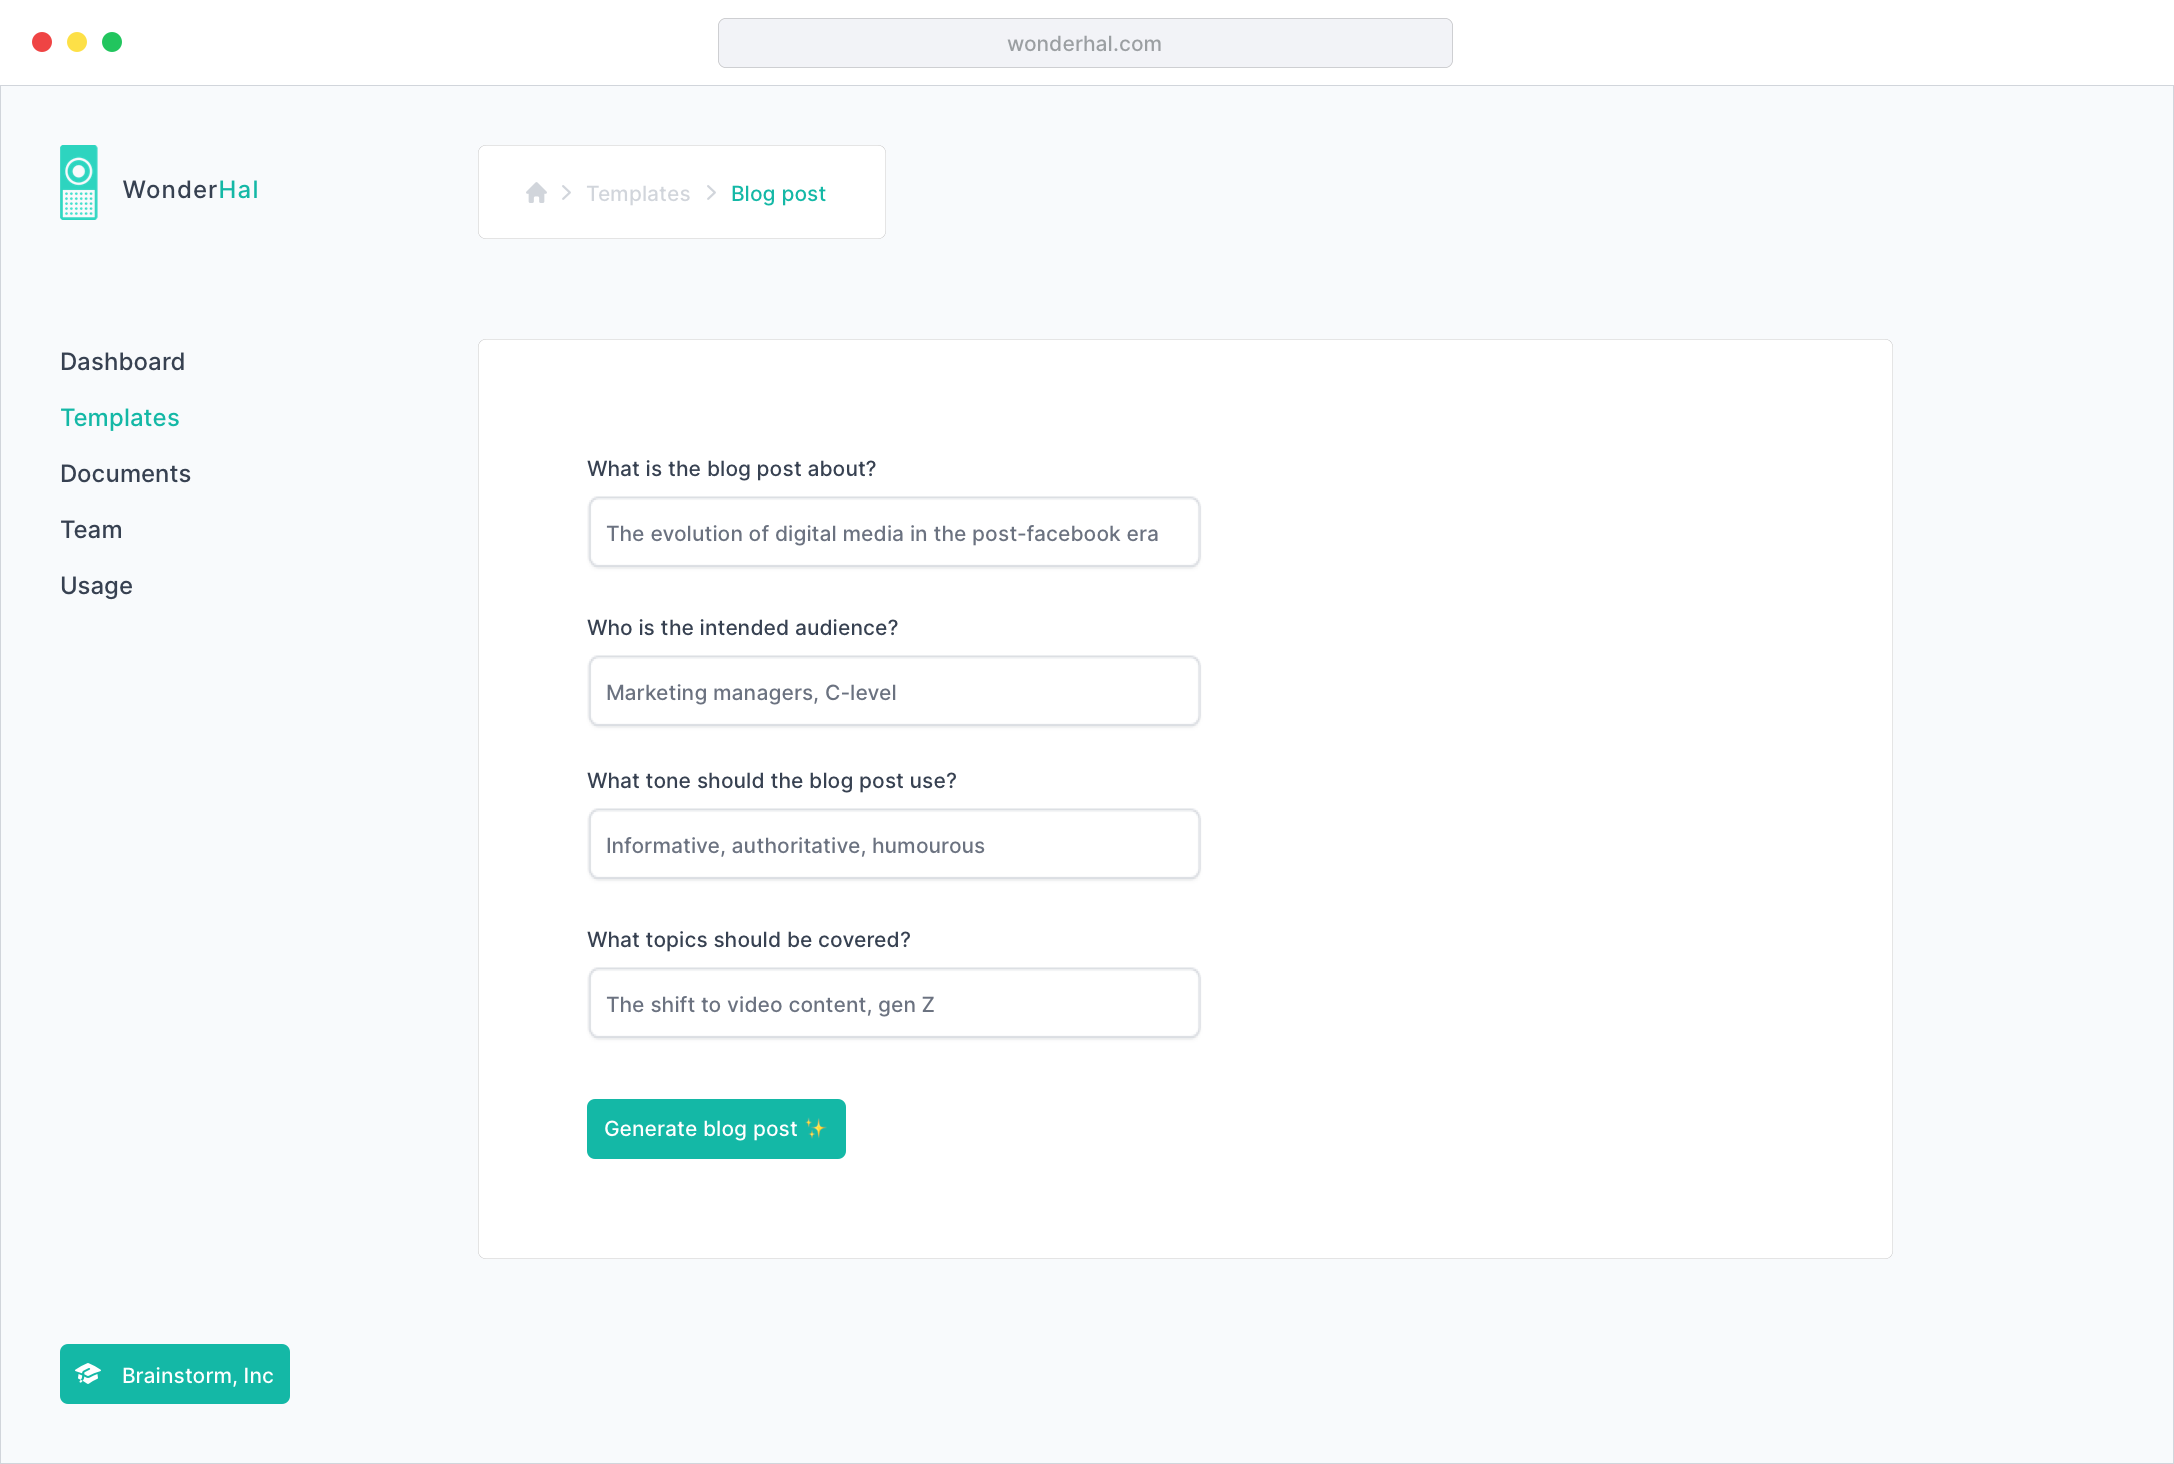
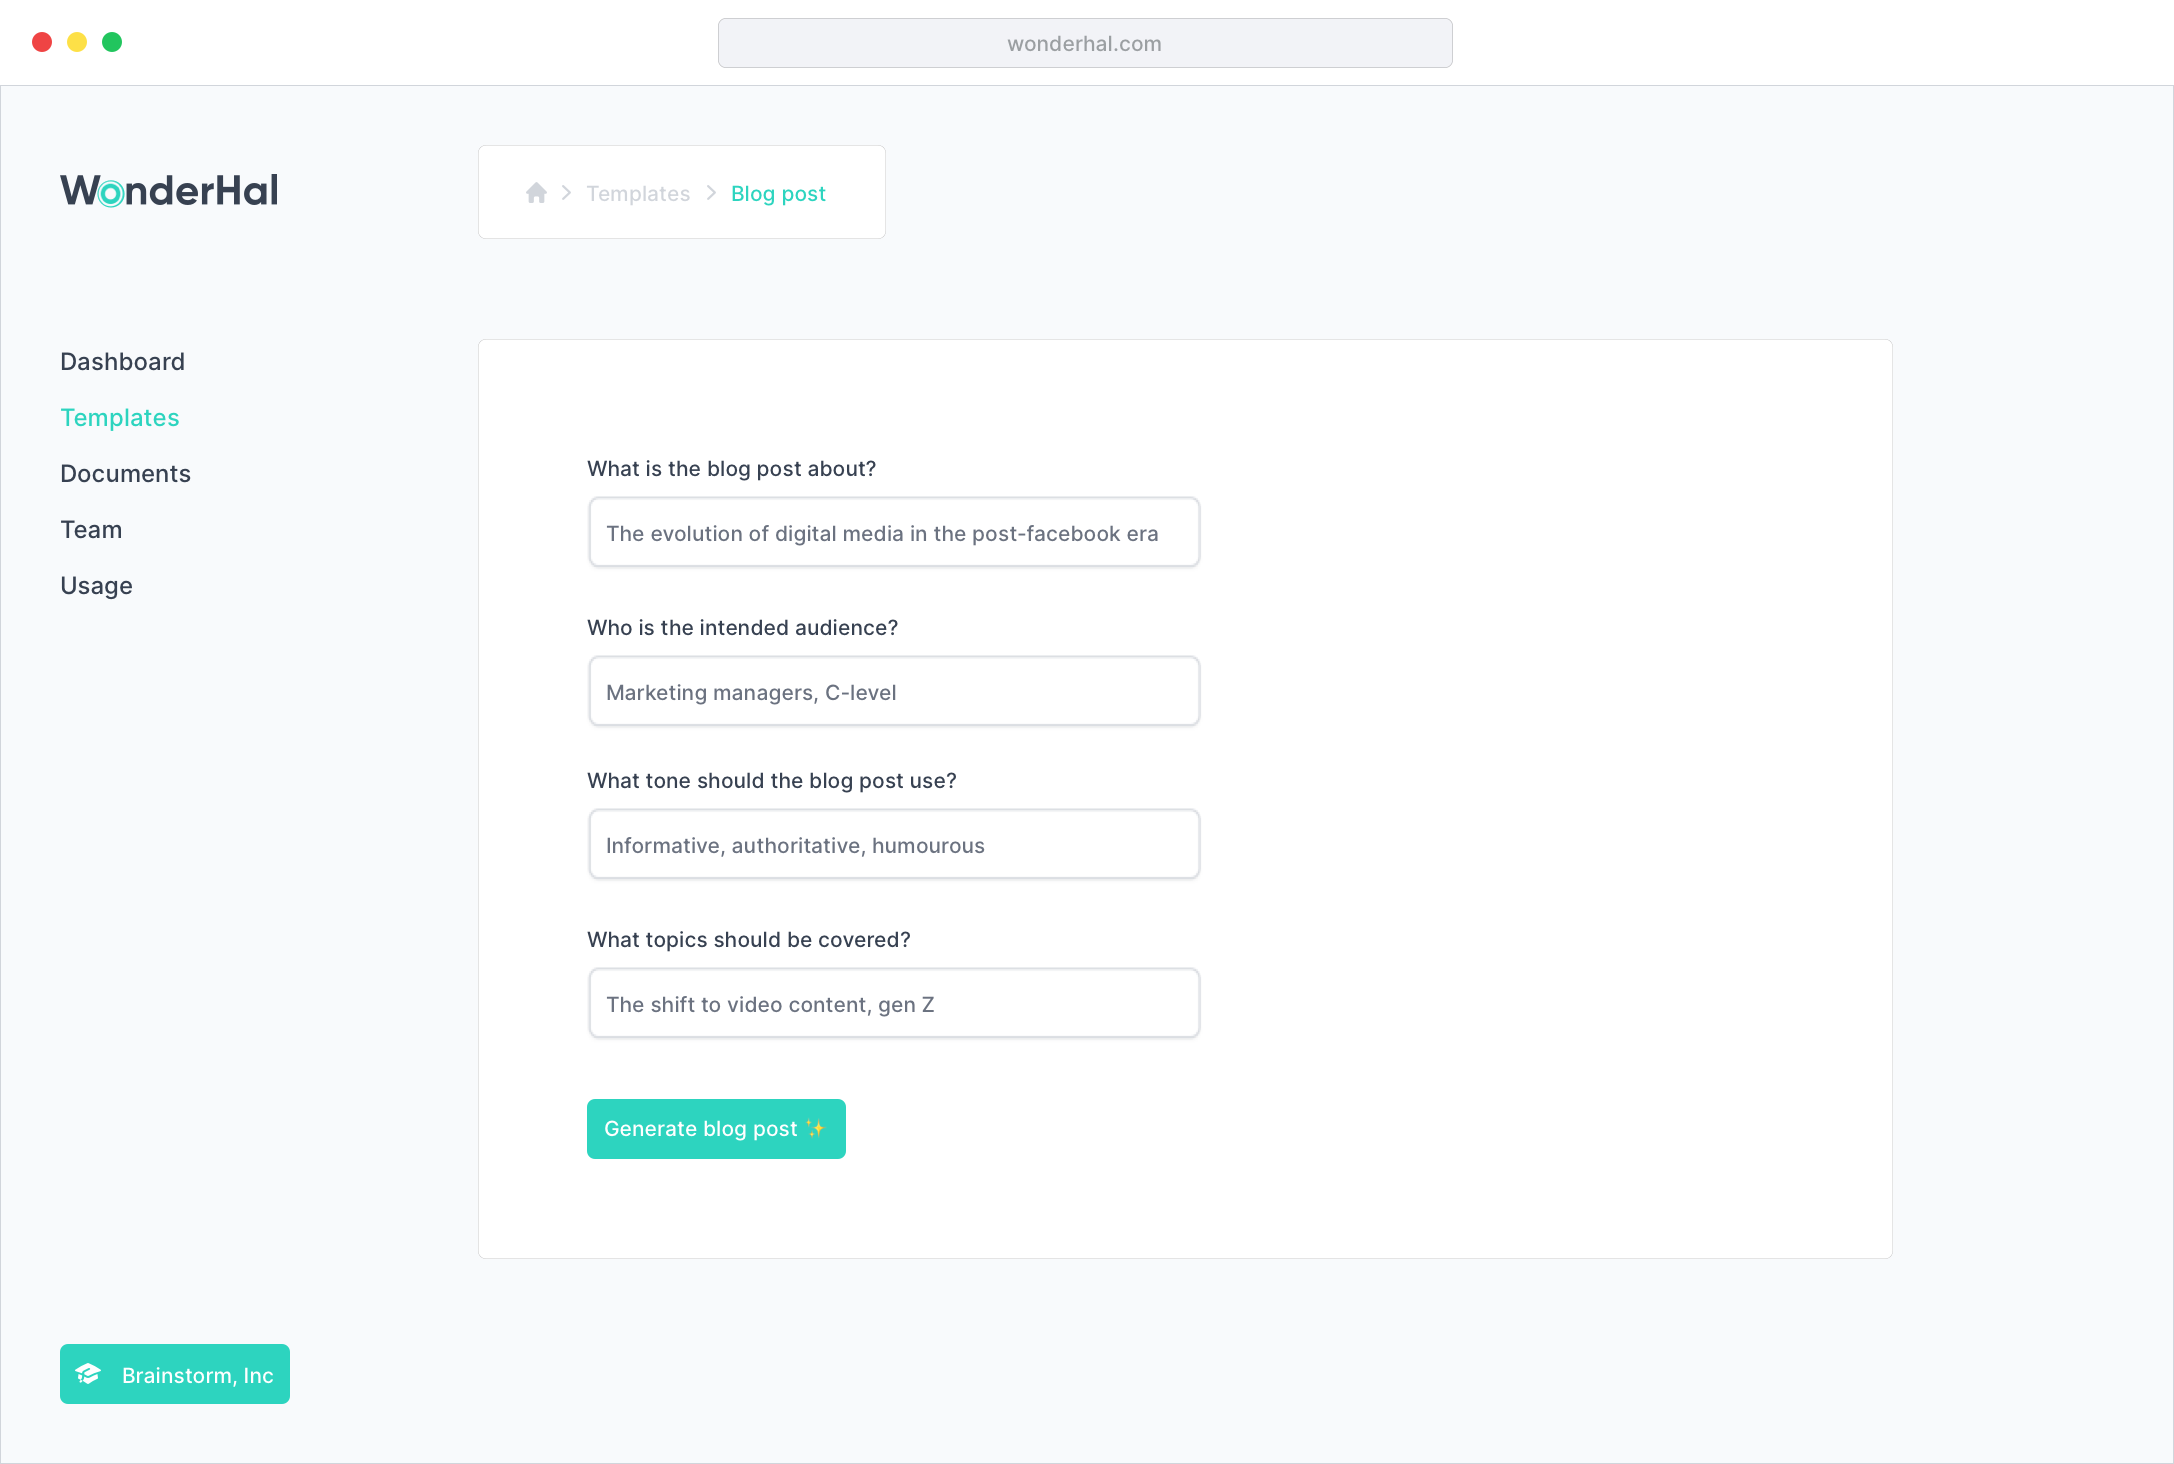
mmm

diff --git a/src/components/Button.jsx b/src/components/Button.jsx
@@ -12,7 +12,7 @@ const variantStyles = {
   solid: {
     slate:
       'bg-slate-900 text-white hover:bg-slate-700 hover:text-slate-100 active:bg-slate-800 active:text-slate-300 focus-visible:outline-slate-900',
-    teal: 'bg-teal-500 text-white hover:text-slate-100 hover:bg-teal-500 active:bg-teal-800 active:text-teal-100 focus-visible:outline-teal-600',
+    teal: 'bg-teal-500 text-white hover:text-slate-100 hover:bg-teal-400 active:bg-teal-800 active:text-teal-100 focus-visible:outline-teal-600',
     white:
       'bg-white text-slate-900 hover:bg-teal-50 active:bg-teal-200 active:text-slate-600 focus-visible:outline-white',
   },

diff --git a/src/components/Footer.jsx b/src/components/Footer.jsx
@@ -10,9 +10,9 @@ export function Footer() {
       <Container>
         <div className="py-16">
           <div className='flex justify-center'>
-            <Logo className="mx-auto h-10 w-auto" />
+            <Logo className="mx-auto w-auto" />
           </div>
-          <nav className="mt-10 text-sm" aria-label="quick links">
+          <nav className="mt-5 text-sm" aria-label="quick links">
             <div className="-my-1 flex justify-center gap-x-6">
               <NavLink href="#features">Features</NavLink>
               {/* <NavLink href="#testimonials">Testimonials</NavLink> */}

diff --git a/src/components/Logo.jsx b/src/components/Logo.jsx
@@ -1,8 +1,8 @@
 export function Logo(props) {
   return (
     <img
-      className="h-8 w-auto"
-      src="https://kpvegimjkxdjcxkvrjnv.supabase.co/storage/v1/object/public/img/logos/wonderhal-primary.svg?t=2022-12-07T22%3A56%3A42.723Z"
+      className="h-6 w-auto"
+      src="https://kpvegimjkxdjcxkvrjnv.supabase.co/storage/v1/object/public/img/logos/wonderhal-text-logo.svg"
       alt="WonderHal"
     />
   )
